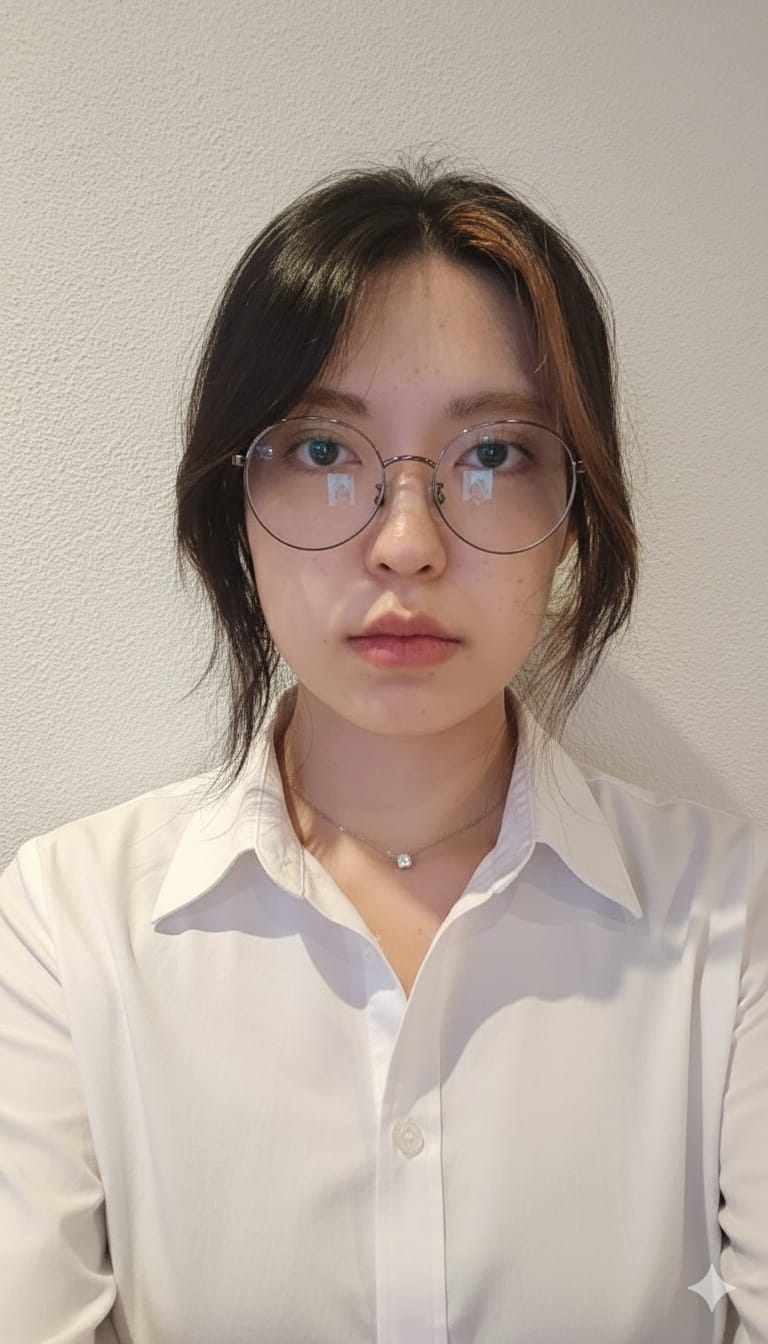
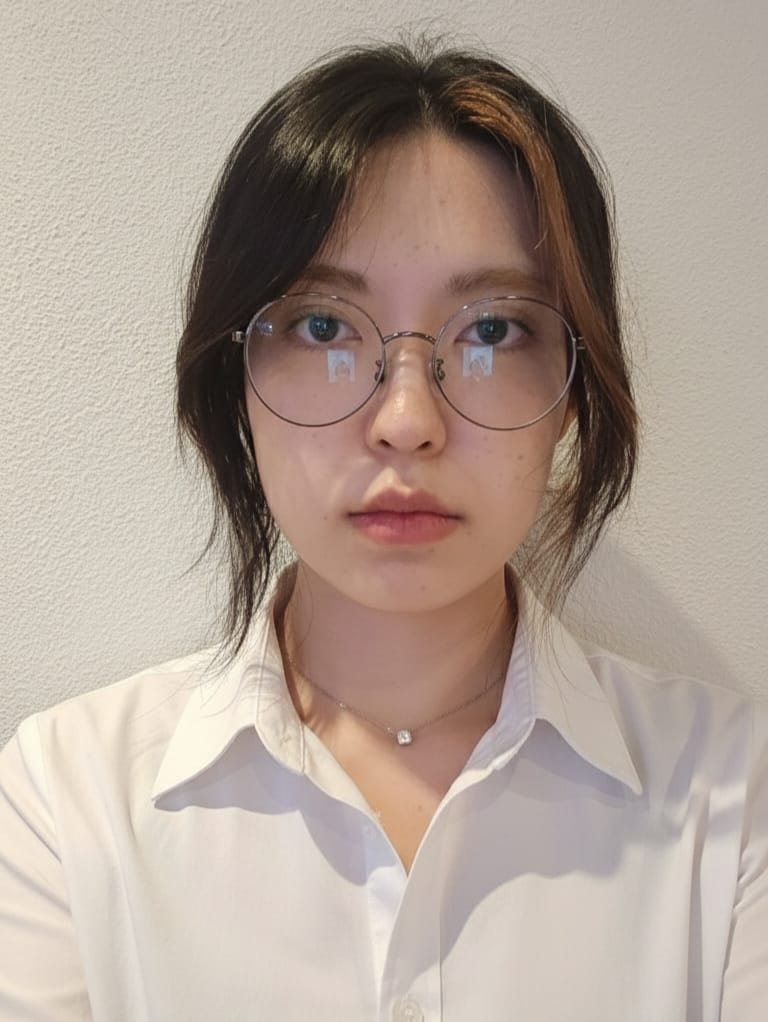
Base styling added

diff --git a/index.html b/index.html
@@ -4,6 +4,11 @@
     <meta charset="UTF-8">
     <meta name="viewport" content="width=device-width, initial-scale=1.0">
     <title>Personal Portfolio - Lavinia Park</title>
+    
+    <link rel="stylesheet" href="css/style.css">
+    <link rel="preconnect" href="https://fonts.googleapis.com">
+    <link rel="preconnect" href="https://fonts.gstatic.com" crossorigin>
+    <link href="https://fonts.googleapis.com/css2?family=Inter:ital,opsz,wght@0,14..32,100..900;1,14..32,100..900&display=swap" rel="stylesheet">
 </head>
 <body>
     <header>
@@ -16,14 +21,21 @@
         </nav>
     </header>
     <main>
-        <h1>I'm Lavinia Park</h1>
-        <span>Junior developer focusing to become a fullstack developer</span>
-        <a href="https://www.linkedin.com/in/lavinia-park-l01122003/" target="_blank"><img src="/assets/icons/linkedin-lavender-icon.png" alt="Lavender Linkedin Icon"/></a>
-        <a href="https://github.com/laviniapark" target="_blank"><img src="/assets/icons/github-lavender-icon.png" alt="Lavender Github Icon"/></a>
-        <img src="/assets/images/foto-portfolio.jpeg" alt="Profile picture of Lavinia"/>
+        <div class="main-text">
+            <h1 class="home-h1">I'm Lavinia Park</h1>
+            <p class="home-description">Junior developer focused on becoming a fullstack developer</p> 
+            <div class="social-icons">
+                <a href="https://www.linkedin.com/in/lavinia-park-l01122003/" target="_blank"><img src="/assets/icons/linkedin-lavender-icon.png" alt="Lavender Linkedin Icon" class="icons"/></a>
+                <a href="https://github.com/laviniapark" target="_blank"><img src="/assets/icons/github-lavender-icon.png" alt="Lavender Github Icon" class="icons"/></a>
+            </div>
+            <div class="about-button">
+                <a href="" class="about-me">About Me</a>
+            </div>
+        </div>
+        <img src="/assets/images/foto-portfolio.jpeg" alt="Profile picture of Lavinia" class="profile-picture"/>
     </main>
     <footer>
-        <p>© 2026 Lavinia Park. All rights reserved.</p>
+        <p class="copyright">© 2026 Lavinia Park. All rights reserved.</p>
     </footer>
 </body>
 </html>

diff --git a/css/style.css b/css/style.css
@@ -1,0 +1,89 @@
+* {
+  margin: 0;
+  padding: 0;
+  box-sizing: border-box;
+}
+
+body {
+    background-color: #2E2E2E;
+    height: 100vh;
+    font-family: 'Inter', sans-serif;
+    display: flex;
+    flex-direction: column;
+}
+
+header {
+    padding: 1rem;
+}
+
+ul {
+    list-style-type: none;
+    display: flex;
+    gap: 2rem;
+    padding-top: 0.5rem;
+    padding-left: 1rem;
+}
+
+a {
+    text-decoration: none;
+    color: #CCA5FA;
+    font-weight: 500;
+    font-size: 1rem;
+}
+
+main {
+    display: flex;
+    flex: 1;
+    align-items: center;
+    justify-content: center;
+    gap: 5rem;
+}
+
+.home-h1 {
+    color: #F4EAFF;
+    font-size: 4.5rem;
+}
+
+.home-description {
+    color: #CCA5FA;
+    font-weight: 600;
+    font-size: 1rem;
+}
+
+.social-icons {
+    display: flex;
+    justify-content: center;
+}
+
+.icons {
+    width: 3rem;
+    padding-top: 1.5rem;
+    padding-bottom: 1rem;
+}
+
+.profile-picture {
+    width: 25%;
+    height: auto;
+    border-radius: 25px;
+}
+
+.about-button {
+    width: fit-content;
+    background-color: #8622FF;
+    border-radius: 10px;
+    padding: 0.7rem 1rem;
+    display: block;
+    margin: 0 auto;
+}
+
+.about-me {
+    color:#F4EAFF;
+    font-size: 1.6rem;
+}
+
+.copyright {
+    color: #CCA5FA;
+    font-size: 0.8rem;
+    text-align: center;
+    padding-bottom: 0.5rem;
+}
